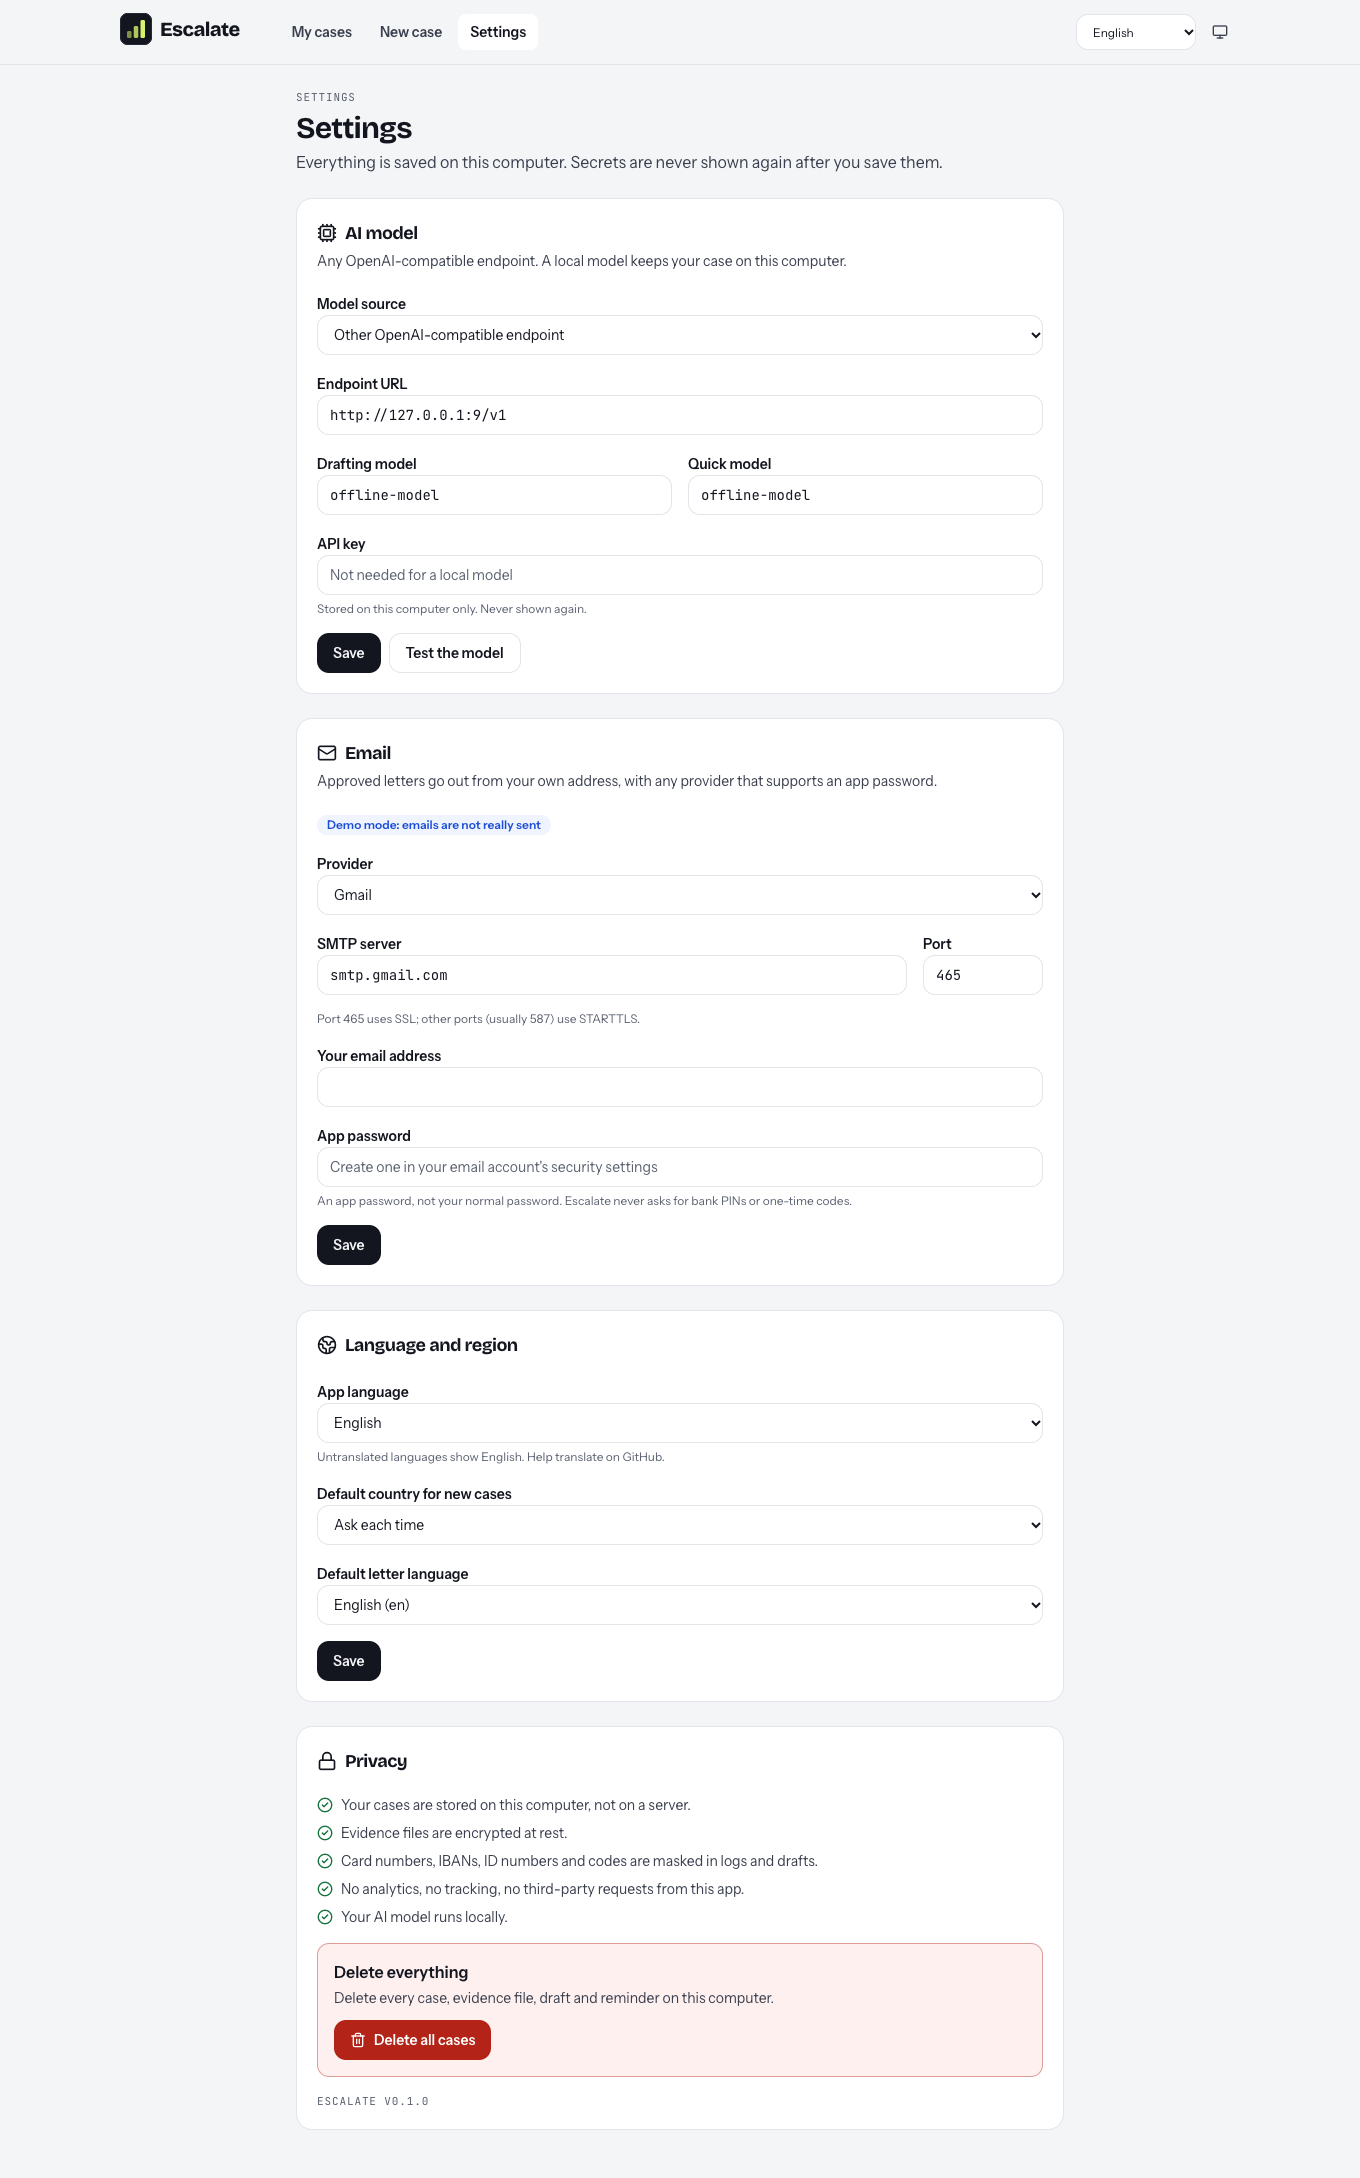
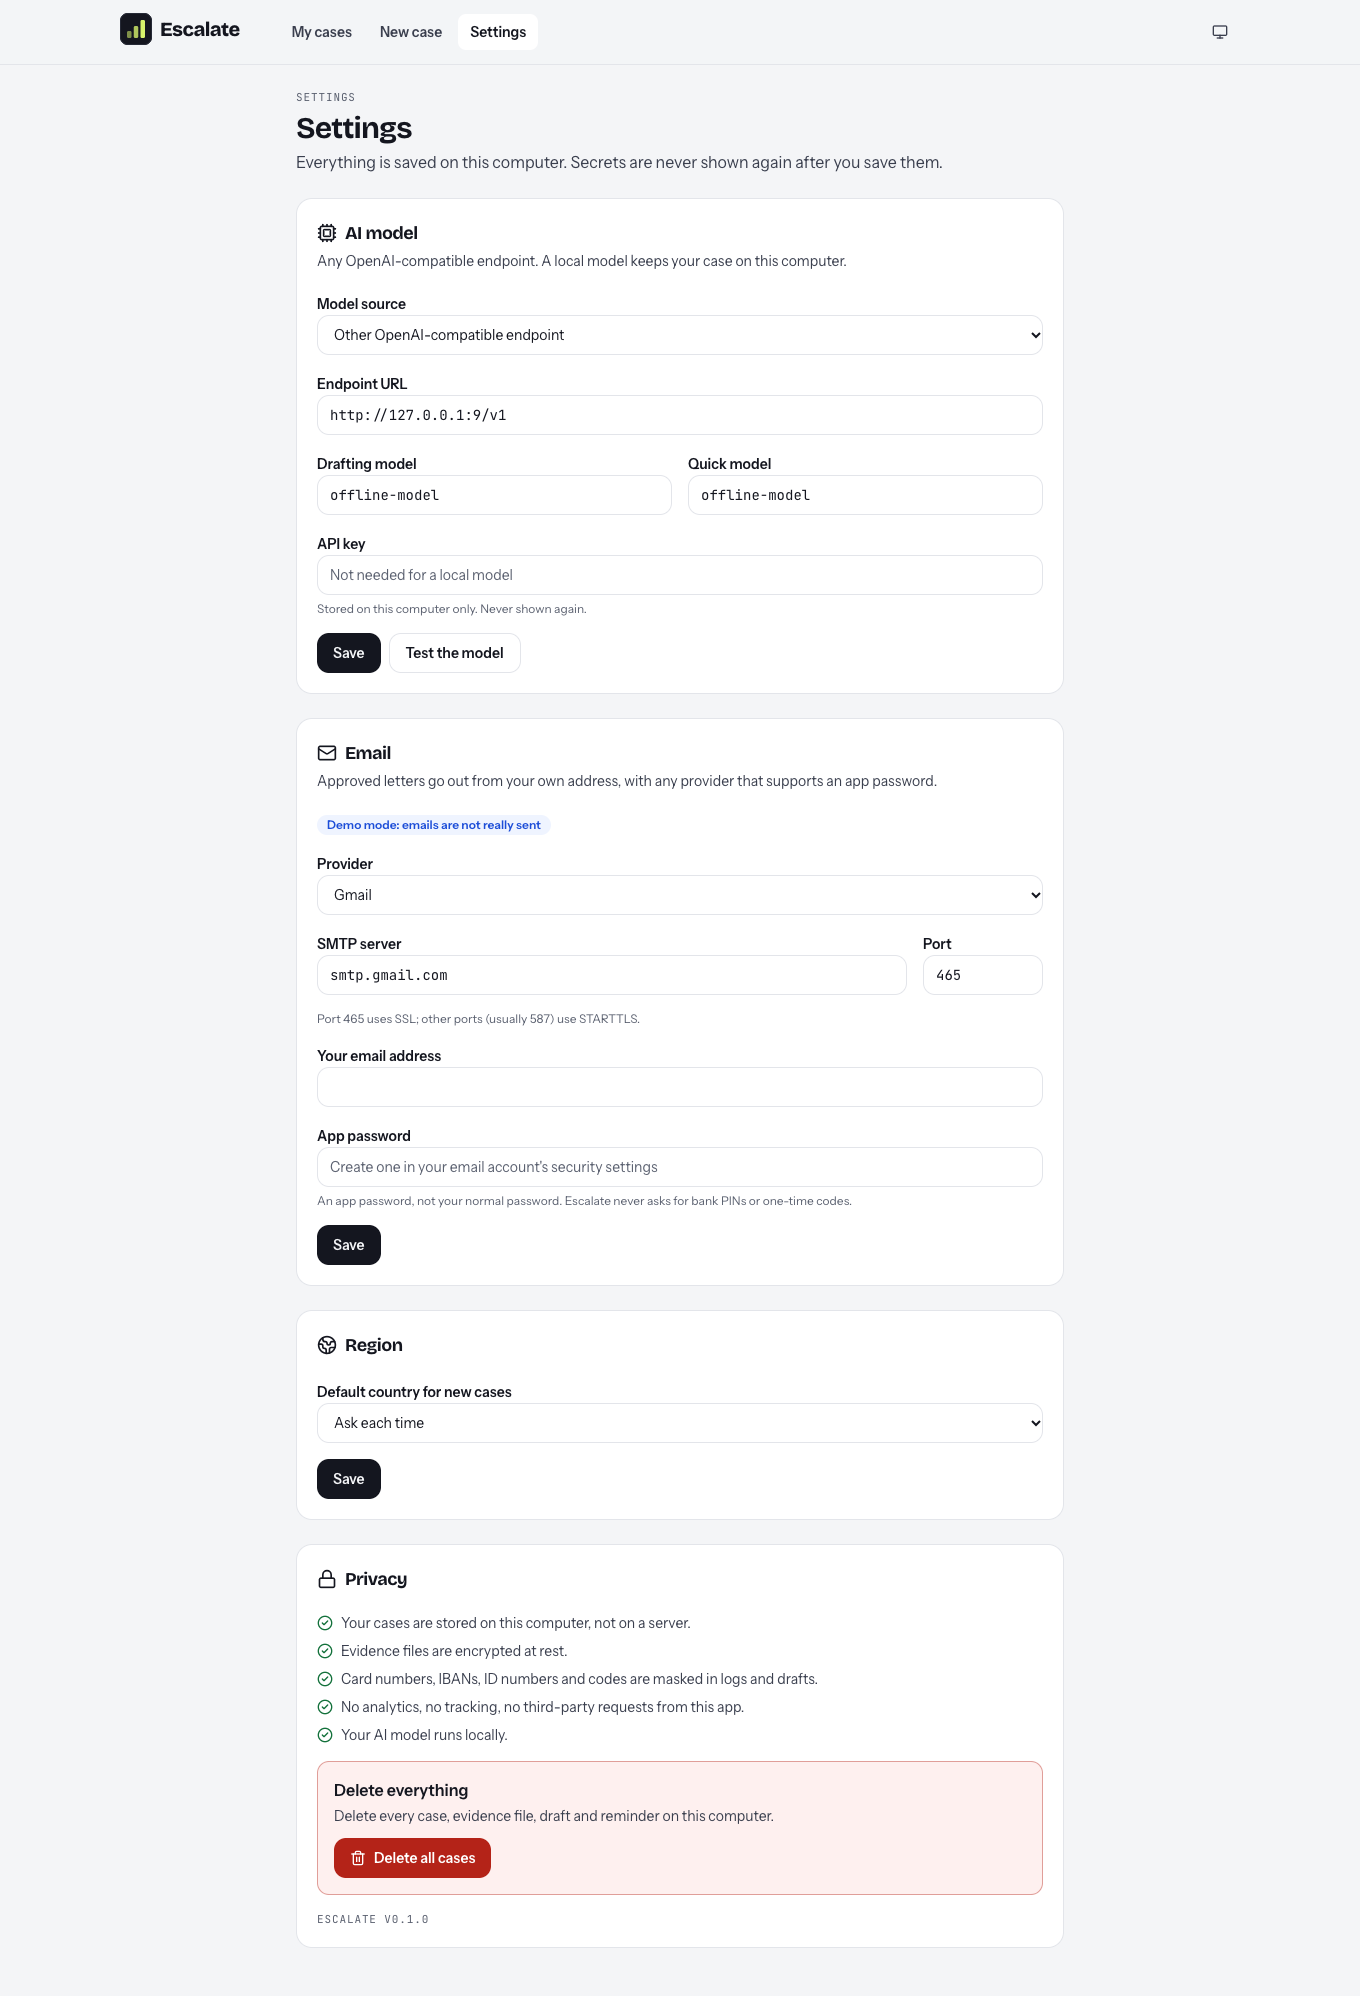
docs: regenerate screenshots, README for English-only v0.1
Screenshots regenerated against a throwaway DEMO_MODE API (side-by-side
Urdu and Arabic UI shots removed; dark My cases added). README no longer
promises multiple languages; web-e2e description includes the console
guard.

diff --git a/web/e2e/screenshots.spec.ts b/web/e2e/screenshots.spec.ts
@@ -154,6 +154,9 @@ test.describe("dark", () => {
     await page.goto(`/cases/${PK.id}/review`);
     await settled(page);
     await shot(page, "18-dark-review");
+    await page.goto("/cases");
+    await settled(page);
+    await shot(page, "19-dark-my-cases");
   });
 });
 

diff --git a/README.md b/README.md
@@ -66,16 +66,16 @@ All screenshots use the fictional demo cases. Full set: [docs/screenshots/](docs
 | **Landing** | **My cases** |
 | ![Case dashboard: ladder, next move and the agent's reasons](docs/screenshots/08-case-dashboard.png) | ![Review draft: verified facts highlighted, safety checks, decision card](docs/screenshots/09-review-draft.png) |
 | **Case dashboard** | **Review draft** |
-| ![Side-by-side letter in English and Urdu (right to left)](docs/screenshots/10-review-side-by-side-urdu.png) | ![A blank to fill keeps Approve disabled](docs/screenshots/11-review-blank-to-fill.png) |
-| **Side by side, right-to-left** | **Blanks block approval** |
+| ![A blank to fill keeps Approve disabled](docs/screenshots/11-review-blank-to-fill.png) | ![Mobile: review draft](docs/screenshots/21-mobile-review.png) |
+| **Blanks block approval** | **Mobile** |
 | ![Draft blocked by the fact check: wrong vs. evidence value](docs/screenshots/12-state-fact-check-blocked.png) | ![Scam urgent checklist](docs/screenshots/13-scam-urgent-checklist.png) |
 | **Blocked by the fact check** | **Scam: urgent checklist** |
 | ![New case wizard: where you are](docs/screenshots/03-new-case-where.png) | ![Missing facts with "why we ask"](docs/screenshots/07-missing-facts.png) |
 | **New case wizard** | **Missing facts** |
 | ![Reply verdict with offered, by when and condition](docs/screenshots/15-reply-verdict.png) | ![Settings: model, email, language, privacy](docs/screenshots/16-settings.png) |
 | **Reply verdict** | **Settings** |
-| ![Dark mode review](docs/screenshots/18-dark-review.png) | ![Arabic UI, right to left](docs/screenshots/19-rtl-arabic-cases.png) |
-| **Dark mode** | **Arabic UI (RTL)** |
+| ![Dark mode review](docs/screenshots/18-dark-review.png) | ![Dark mode: My cases](docs/screenshots/19-dark-my-cases.png) |
+| **Dark mode** | **Dark mode: My cases** |
 
 ## How it works
 
@@ -108,9 +108,9 @@ flowchart LR
 - **One process** runs the API and the scheduler (reminders survive restarts). The web app
   (`web/`) and the Streamlit dev UI (`ui/`) only talk to the API, so a future mobile or chat
   front end can reuse it.
-- **Global by design:** every ISO country is listed; money and dates use each case's locale;
-  letters can be in any language, right-to-left included. Countries without a local pack get a
-  generic route, labelled as such.
+- **Global by design:** every ISO country is listed; money and dates use each case's locale.
+  Countries without a local pack get a generic route, labelled as such. v0.1 is English-only
+  (app and letters); more languages are coming (see docs/DECISIONS.md).
 - **Free by default:** a local model through Ollama; any OpenAI-compatible endpoint works
   (Groq, Gemini, OpenRouter, paid APIs) by changing one line in `.env`.
 
@@ -131,7 +131,7 @@ flowchart LR
 | Country | Refund refused | Subscription | Scam checklist | Status |
 | --- | --- | --- | --- | --- |
 | 🌍 Any country | generic ladder | generic ladder | generic | ✅ always available |
-| 🇵🇰 Pakistan | seller → marketplace → 15-day legal notice → District Consumer Court (en, ur) | generic | ✅ | needs lawyer review |
+| 🇵🇰 Pakistan | seller → marketplace → 15-day legal notice → District Consumer Court | generic | ✅ | needs lawyer review |
 | 🇮🇳 India | demand → legal notice → District Consumer Commission | generic | ✅ | starter, needs verification |
 | 🇬🇧 United Kingdom | complaint → letter before action → small claim | generic | ✅ | starter, needs verification |
 | 🇺🇸 United States | demand → final demand → state attorney general → small claims | generic | ✅ | starter, needs verification |
@@ -157,7 +157,7 @@ lawyers or consumer-rights groups. Start with [CONTRIBUTING.md](CONTRIBUTING.md)
 make test    # offline unit and integration tests (fake LLM, fake email)
 make lint    # ruff, mypy and the playbook validator
 make web-lint  # eslint and TypeScript for the web app
-make web-e2e   # Playwright smoke tests (incl. Arabic RTL and dark mode) against a running app
+make web-e2e   # Playwright: smoke, console/hydration guard (light + dark), dark mode, mobile
 make evals   # golden-set evals against your model
 ```
 

diff --git a/docs/PROGRESS.md b/docs/PROGRESS.md
@@ -27,3 +27,4 @@ One line per task from `CLAUDE_CODE_PLAN.md`: task id, what was built, test resu
 - **4.5** — version 0.1.0, CHANGELOG.md, release notes docs/releases/v0.1.0.md; tag/release commands in MANUAL_STEPS (not tagged) — 256 passed, 3 skipped; ruff+mypy clean; validator OK; CI green on previous commit
 - **web** — Next.js web app in `web/` (App Router, TypeScript, Tailwind 4, shadcn-style UI, next-intl en + 7 empty locales, full RTL, light/dark): landing, 5-step new-case wizard, my cases, dashboard, review draft (verified facts/blanks highlighted, side-by-side language, safety checks, confirm dialog), log a reply (verdict + override), scam checklist, settings; API additions (countries, review, preview, letter language, verdict override, settings, delete-all, demo seed, CORS for the web origin only); `make demo-data`; web in compose/Makefile; CI `web` (lint, typecheck, messages, build) and `web-e2e` (Playwright smoke incl. Arabic RTL and dark mode); 23 screenshots in docs/screenshots — 269 Python tests passed, 3 skipped; 11 Playwright tests passed locally (system Chrome); ruff+mypy+eslint+tsc clean
 - **fix: API "hangs" on startup** — not a hang: alembic's fileConfig() (run by init_db) disabled uvicorn's loggers, so "Application startup complete", access logs and tracebacks vanished; startup took <1 s. Migrations no longer configure logging inside the app. The demo-data 500 was a blank duplicate FERNET_KEY= in .env overriding the real key; setup_env.sh used to *replace* the real key in that case (fixed), and startup now warns about duplicate .env keys and an empty FERNET_KEY. `make api` added. Startup test: lifespan completes offline in <5 s — 274 passed, 3 skipped; ruff+mypy clean
+- **pre-release polish** — (1) English-only v0.1 behind ENABLED_LETTER_LANGUAGES / NEXT_PUBLIC_ENABLED_LOCALES, selectors hidden, RTL spec skipped; (2) case titles (migration e73f0d0b09bd with backfill, PATCH rename, PDF cover, demo titles); (3) one money format (format_amount; shared fixture table tested in Python and Node); (4) My cases sorted 2-column card grid with real next steps and days left; (5) landing copy; (6) next-themes replaced (no script tag in components), UTC dates, console/hydration guard on prod and next dev; also fixed tests reading the developer's .env — 292 Python passed, 3 skipped; web lint/typecheck/messages/unit (12) clean; Playwright 12 passed, 1 skipped (RTL, by design); migration up/down verified on a copy of escalate.db; screenshots regenerated against a throwaway DEMO_MODE API
